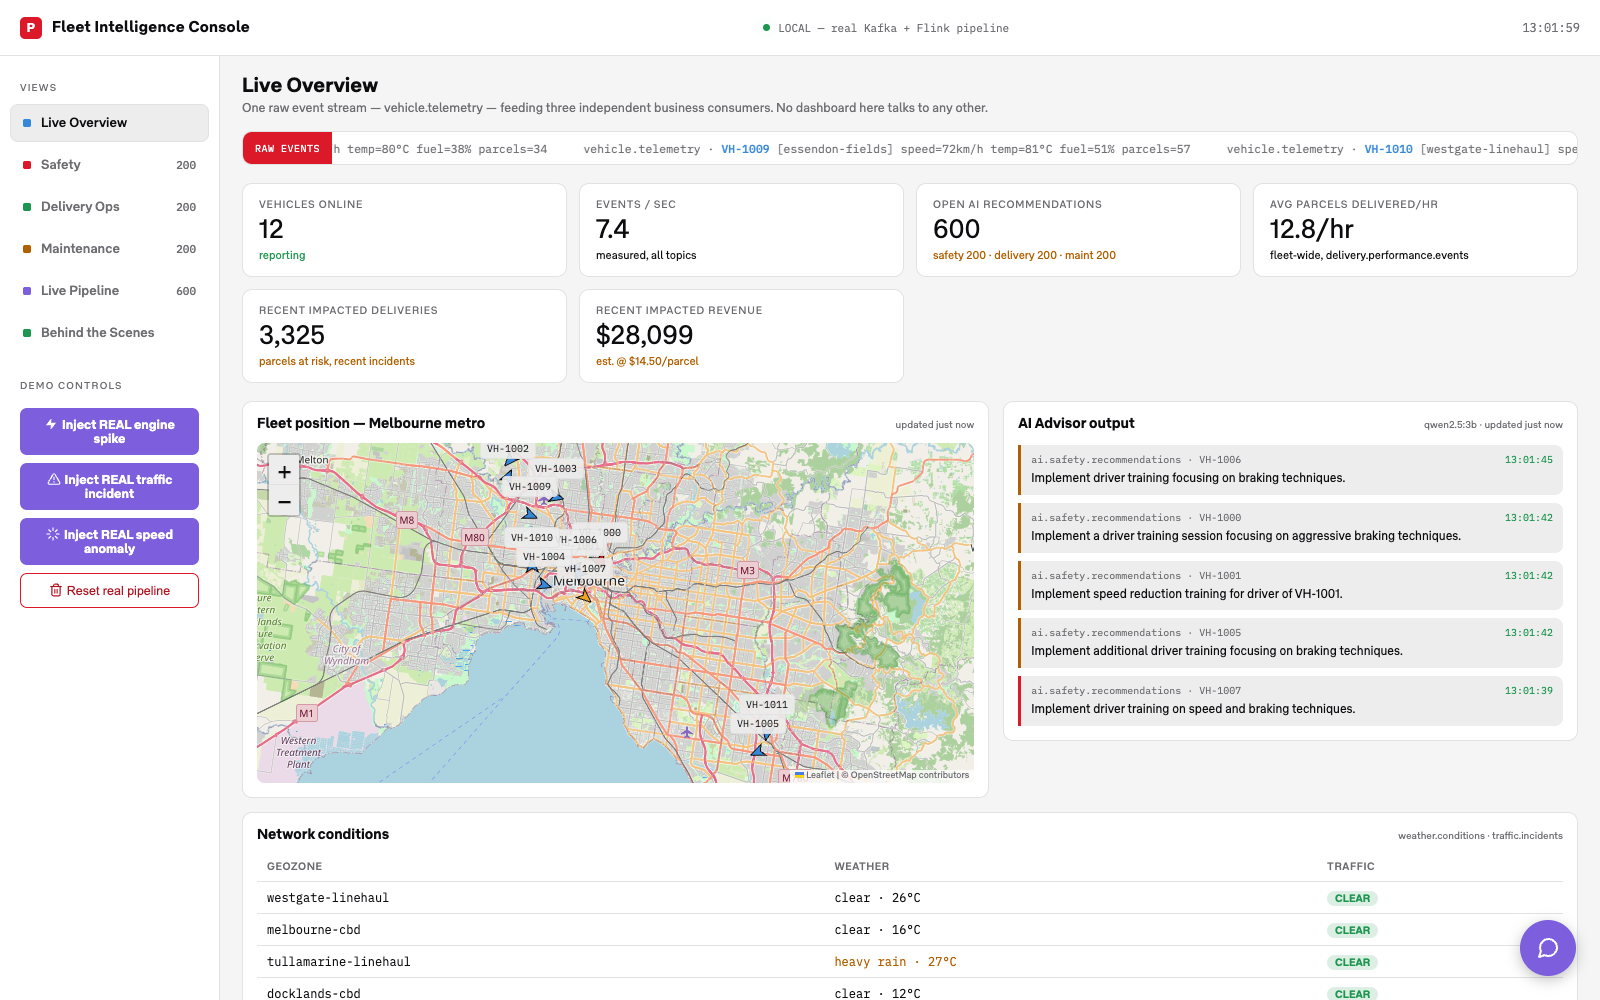
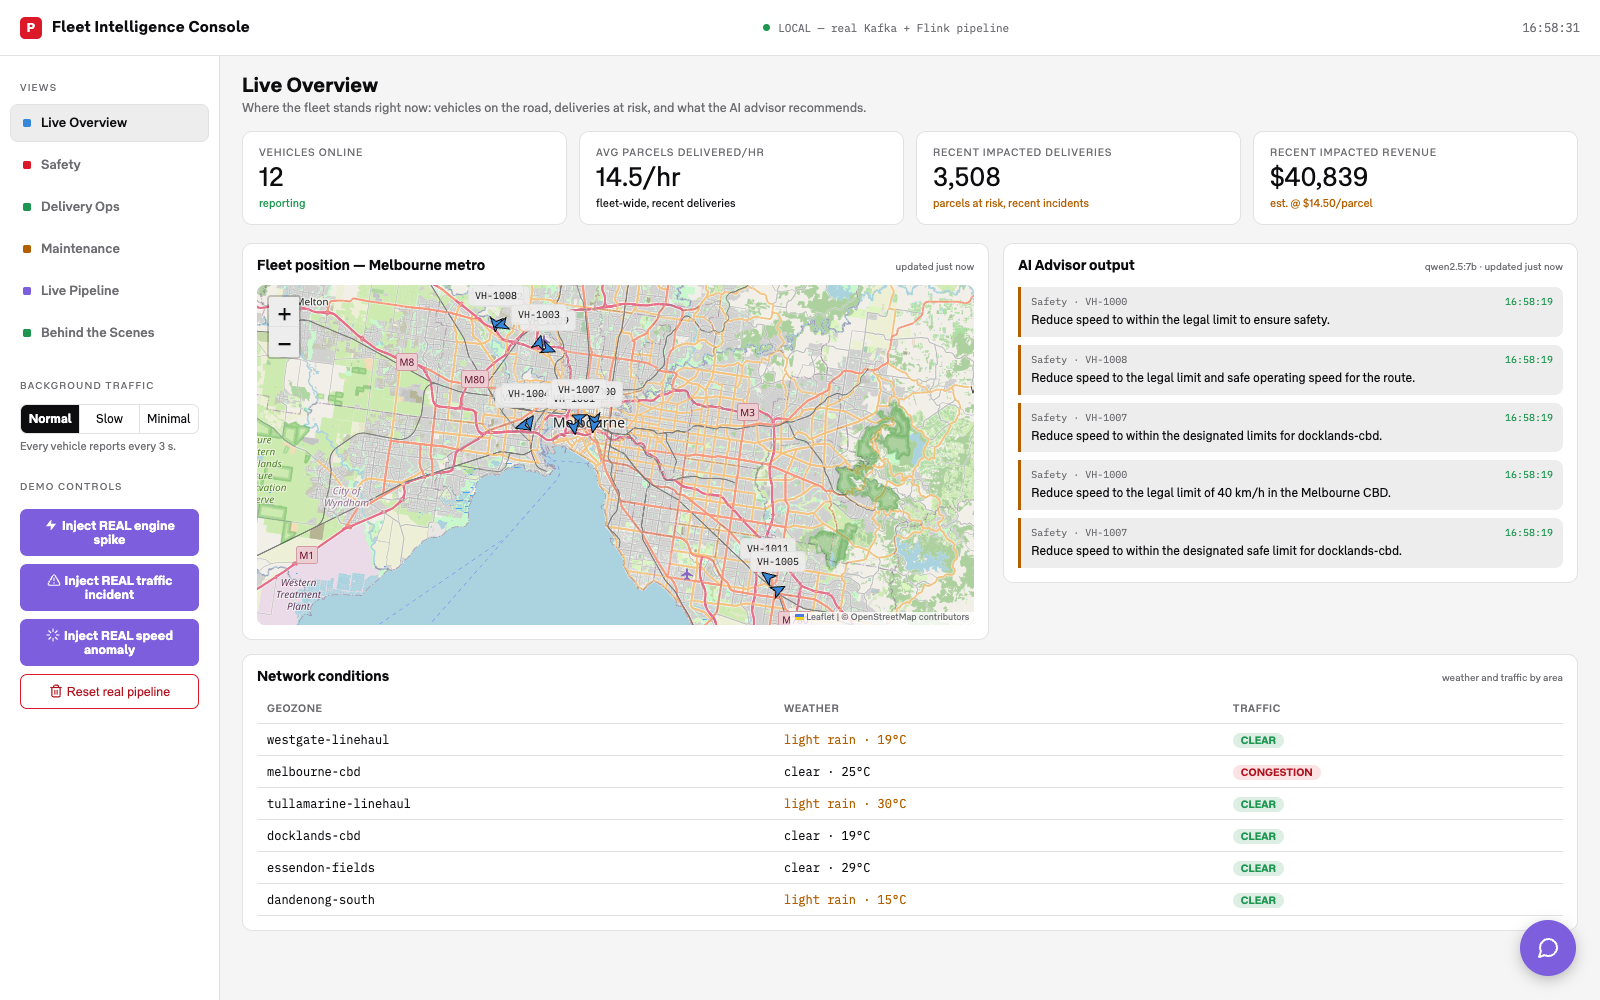
Simplify the home page to business information
Live Overview now shows four business KPI tiles on one row (vehicles
online, parcels delivered/hr, recent impacted deliveries and revenue),
a plain-language subtitle, and AI Advisor entries labelled by business
domain ("Safety · VH-1009") instead of Kafka topic names.

Technical detail moves off the home page: the RAW EVENTS ticker goes to
Live Pipeline, and events/sec to a new Throughput section on Behind the
Scenes. Removed outright: the "Open AI recommendations" tiles (home and
Live Pipeline) and the sidebar counters, which only showed the console's
recommendation buffer sizes (200 per domain), not anything open.

diff --git a/fleet-intelligence-console.html b/fleet-intelligence-console.html
@@ -69,7 +69,6 @@
   .navitem:hover{background:var(--panel-light);}
   .navitem.active{background:var(--panel-light);border-color:var(--line);color:var(--ink);}
   .navitem .sw{width:8px;height:8px;border-radius:2px;flex-shrink:0;}
-  .navitem .count{margin-left:auto;font-family:var(--font-mono);font-size:11px;color:var(--steel);}
 
   /* Main */
   .main{padding:18px 22px;overflow-y:auto;}
@@ -188,10 +187,10 @@
   <div class="side">
     <div class="navlabel">Views</div>
     <div class="navitem active" data-view="overview"><span class="sw" style="background:var(--blue)"></span>Live Overview</div>
-    <div class="navitem" data-view="safety"><span class="sw" style="background:var(--red)"></span>Safety<span class="count" id="count-safety">0</span></div>
-    <div class="navitem" data-view="delivery"><span class="sw" style="background:var(--green)"></span>Delivery Ops<span class="count" id="count-delivery">0</span></div>
-    <div class="navitem" data-view="maintenance"><span class="sw" style="background:var(--amber)"></span>Maintenance<span class="count" id="count-maintenance">0</span></div>
-    <div class="navitem" data-view="live"><span class="sw" style="background:var(--purple)"></span>Live Pipeline<span class="count" id="count-live">0</span></div>
+    <div class="navitem" data-view="safety"><span class="sw" style="background:var(--red)"></span>Safety</div>
+    <div class="navitem" data-view="delivery"><span class="sw" style="background:var(--green)"></span>Delivery Ops</div>
+    <div class="navitem" data-view="maintenance"><span class="sw" style="background:var(--amber)"></span>Maintenance</div>
+    <div class="navitem" data-view="live"><span class="sw" style="background:var(--purple)"></span>Live Pipeline</div>
     <div class="navitem" data-view="behindscenes"><span class="sw" style="background:var(--green)"></span>Behind the Scenes</div>
     <div class="navlabel" style="margin-top:14px;">Background traffic</div>
     <div style="padding:2px 10px 6px;">
@@ -216,12 +215,7 @@
     <!-- OVERVIEW -->
     <div class="view active" id="view-overview">
       <h1 class="pagehead">Live Overview</h1>
-      <p class="sub">One raw event stream — vehicle.telemetry — feeding three independent business consumers. No dashboard here talks to any other.</p>
-
-      <div class="ticker-wrap">
-        <div class="ticker-label">RAW EVENTS</div>
-        <div class="ticker" id="ticker"></div>
-      </div>
+      <p class="sub">Where the fleet stands right now: vehicles on the road, deliveries at risk, and what the AI advisor recommends.</p>
 
       <!-- Trace strip: shows one injected event's real journey through the
            pipeline (raw -> Flink-derived -> AI reasoning -> live) instead of
@@ -237,9 +231,7 @@
 
       <div class="grid grid-overview">
         <div class="card"><div class="lbl">Vehicles online</div><div class="val" id="kpi-vehicles">—</div><div class="delta up" id="kpi-vehicles-delta">connecting…</div></div>
-        <div class="card"><div class="lbl">Events / sec</div><div class="val" id="kpi-eps">—</div><div class="delta">measured, all topics</div></div>
-        <div class="card"><div class="lbl">Open AI recommendations</div><div class="val" id="kpi-recs">0</div><div class="delta warn" id="kpi-recs-delta">—</div></div>
-        <div class="card"><div class="lbl">Avg parcels delivered/hr</div><div class="val" id="kpi-eta">—</div><div class="delta">fleet-wide, delivery.performance.events</div></div>
+        <div class="card"><div class="lbl">Avg parcels delivered/hr</div><div class="val" id="kpi-eta">—</div><div class="delta">fleet-wide, recent deliveries</div></div>
         <div class="card"><div class="lbl">Recent impacted deliveries</div><div class="val" id="kpi-impacted-deliveries">0</div><div class="delta warn" id="kpi-impacted-deliveries-delta">parcels at risk, recent incidents</div></div>
         <div class="card"><div class="lbl">Recent impacted revenue</div><div class="val" id="kpi-impacted-revenue">$0</div><div class="delta warn">est. @ $14.50/parcel</div></div>
       </div>
@@ -256,7 +248,7 @@
       </div>
 
       <div class="feedcard" style="height:auto;margin-top:14px;">
-        <h3>Network conditions <span style="font-size:10px;color:var(--steel);font-weight:400;">weather.conditions · traffic.incidents</span></h3>
+        <h3>Network conditions <span style="font-size:10px;color:var(--steel);font-weight:400;">weather and traffic by area</span></h3>
         <table>
           <thead><tr><th>Geozone</th><th>Weather</th><th>Traffic</th></tr></thead>
           <tbody id="network-conditions"></tbody>
@@ -370,18 +362,22 @@
     <!-- LIVE PIPELINE -->
     <div class="view" id="view-live">
       <h1 class="pagehead">Live Pipeline</h1>
-      <p class="sub">Raw diagnostics for the same pipeline every dashboard in this console now reads from — connection state, pipeline mode/source, and the unfiltered recommendation stream across all three domains (<b>fleet-context-engine</b>'s HTTP API, backed by the real local Kafka + Flink + LLM pipeline in <code>docker-compose.yml</code>).</p>
+      <p class="sub">Raw diagnostics for the same pipeline every dashboard in this console now reads from — connection state, pipeline mode/source, the raw event stream, and the unfiltered recommendation stream across all three domains (<b>fleet-context-engine</b>'s HTTP API, backed by the real local Kafka + Flink + LLM pipeline in <code>docker-compose.yml</code>).</p>
 
       <div id="live-status" class="feedcard" style="height:auto;flex-direction:row;align-items:center;gap:10px;margin-bottom:14px;">
         <span class="dot" id="live-dot" style="background:var(--steel);animation:none;"></span>
         <span id="live-status-text" style="font-family:var(--font-mono);font-size:12px;color:var(--steel);">Connecting…</span>
       </div>
 
-      <div class="grid">
+      <div class="ticker-wrap">
+        <div class="ticker-label">RAW EVENTS</div>
+        <div class="ticker" id="ticker"></div>
+      </div>
+
+      <div class="grid" style="grid-template-columns:repeat(3,1fr);">
         <div class="card"><div class="lbl">Vehicles reporting</div><div class="val" id="live-vehicles">—</div><div class="delta" id="live-source">—</div></div>
         <div class="card"><div class="lbl">Avg engine temp</div><div class="val" id="live-temp">—</div></div>
         <div class="card"><div class="lbl">High risk (safety+maint)</div><div class="val" id="live-risk">—</div><div class="delta warn">threshold: risk &gt; 70</div></div>
-        <div class="card"><div class="lbl">Open AI recommendations</div><div class="val" id="live-recs">—</div><div class="delta" id="live-recs-delta">real <span class="llm-model">local LLM</span> output</div></div>
       </div>
 
       <div class="feedcard" style="height:auto;">
@@ -405,6 +401,10 @@
             <div class="bts-legend-row"><span class="bts-swatch" style="background:var(--green)"></span>Serve / Iceberg</div>
             <div class="bts-legend-row"><span class="bts-swatch" style="background:var(--purple)"></span>Agent (MCP)</div>
             <div class="bts-legend-row"><span class="bts-swatch" style="background:var(--red-dim)"></span>DuckDB</div>
+          </section>
+          <section>
+            <h3>Throughput</h3>
+            <div class="bts-stat-row"><span>Events / sec (all topics)</span><span class="v" id="bts-eps">—</span></div>
           </section>
           <section>
             <h3>Cumulative hops</h3>
@@ -649,7 +649,10 @@ function feedSeverityClass(severity){
   if (severity === 'medium' || severity === 'med') return 'med';
   return '';
 }
-function renderFeed(elId, recs){
+// Home page feed labels: the business domain rather than the Kafka topic
+// (Live Pipeline and the domain tabs keep the topic names).
+const DOMAIN_LABELS = { safety: 'Safety', delivery: 'Delivery', maintenance: 'Maintenance' };
+function renderFeed(elId, recs, {businessLabels = false} = {}){
   const feed = document.getElementById(elId);
   if (!feed || !recs) return;
   feed.innerHTML = '';
@@ -672,7 +675,8 @@ function renderFeed(elId, recs){
     const badge = r.injectionId
       ? `<span class="inj-badge">${myInjectionIds.has(r.injectionId) ? 'Your injection' : 'Injected'}</span>`
       : '';
-    div.innerHTML = `<div class="meta"><span>${badge}ai.${r.domain}.recommendations · ${r.vehicleId||''}</span><span class="conf">${when}</span></div>${r.text}`;
+    const source = businessLabels ? (DOMAIN_LABELS[r.domain] || r.domain) : `ai.${r.domain}.recommendations`;
+    div.innerHTML = `<div class="meta"><span>${badge}${source} · ${r.vehicleId||''}</span><span class="conf">${when}</span></div>${r.text}`;
     feed.appendChild(div);
   });
 }
@@ -856,23 +860,12 @@ function animateNumber(id, targetText){
 function renderOverview(summary, vehicles, weatherList, trafficIncidents, recs){
   animateNumber('kpi-vehicles', summary.vehiclesOnline ?? '—');
   document.getElementById('kpi-vehicles-delta').textContent = 'reporting';
-  animateNumber('kpi-eps', summary.eventsPerSecond ?? '—');
-  const counts = summary.recommendationCounts || {};
-  const openRecs = (counts.safety||0) + (counts.delivery||0) + (counts.maintenance||0);
-  animateNumber('kpi-recs', openRecs);
-  document.getElementById('kpi-recs-delta').textContent = openRecs ? `safety ${counts.safety||0} · delivery ${counts.delivery||0} · maint ${counts.maintenance||0}` : '—';
   animateNumber('kpi-eta', summary.avgParcelsDeliveredPerHour != null ? summary.avgParcelsDeliveredPerHour.toFixed(1) + '/hr' : '—');
 
   updateImpactKPIs(vehicles, trafficIncidents);
   renderMap(vehicles);
-  updateTicker(vehicles);
   renderNetworkConditions(weatherList, trafficIncidents);
-  renderFeed('feed-overview', recs);
-
-  document.getElementById('count-safety').textContent = counts.safety || 0;
-  document.getElementById('count-delivery').textContent = counts.delivery || 0;
-  document.getElementById('count-maintenance').textContent = counts.maintenance || 0;
-  document.getElementById('count-live').textContent = summary.openRecommendations ?? 0;
+  renderFeed('feed-overview', recs, {businessLabels: true});
 }
 
 function renderSafety(summary, vehicles, recs, riskHeuristic, riskAnomaly, riskComparison){
@@ -921,12 +914,12 @@ function renderMaintenance(summary, vehicles, recs){
   renderFeed('feed-maintenance', recs);
 }
 
-function renderLivePipeline(summary, recs){
+function renderLivePipeline(summary, recs, vehicles){
   animateNumber('live-vehicles', summary.vehiclesOnline ?? '—');
   document.getElementById('live-source').textContent = summary.source || '—';
   animateNumber('live-temp', summary.avgEngineTempC != null ? summary.avgEngineTempC.toFixed(1) + '°C' : '—');
   animateNumber('live-risk', (summary.highDriverRiskCount||0) + (summary.highMaintenanceRiskCount||0));
-  animateNumber('live-recs', summary.openRecommendations ?? '—');
+  updateTicker(vehicles);
   renderFeed('feed-live', recs);
 }
 
@@ -954,7 +947,8 @@ async function poll(){
     renderSafety(summary, vehicles, recsSafety, riskHeuristic, riskAnomaly, riskComparison);
     renderDelivery(summary, vehicles, recsDelivery);
     renderMaintenance(summary, vehicles, recsMaintenance);
-    renderLivePipeline(summary, recsAll);
+    renderLivePipeline(summary, recsAll, vehicles);
+    animateNumber('bts-eps', summary.eventsPerSecond ?? '—');
     checkTraceProgress(recsMaintenance);
     lastPollTime = Date.now();
     tickFreshness();
